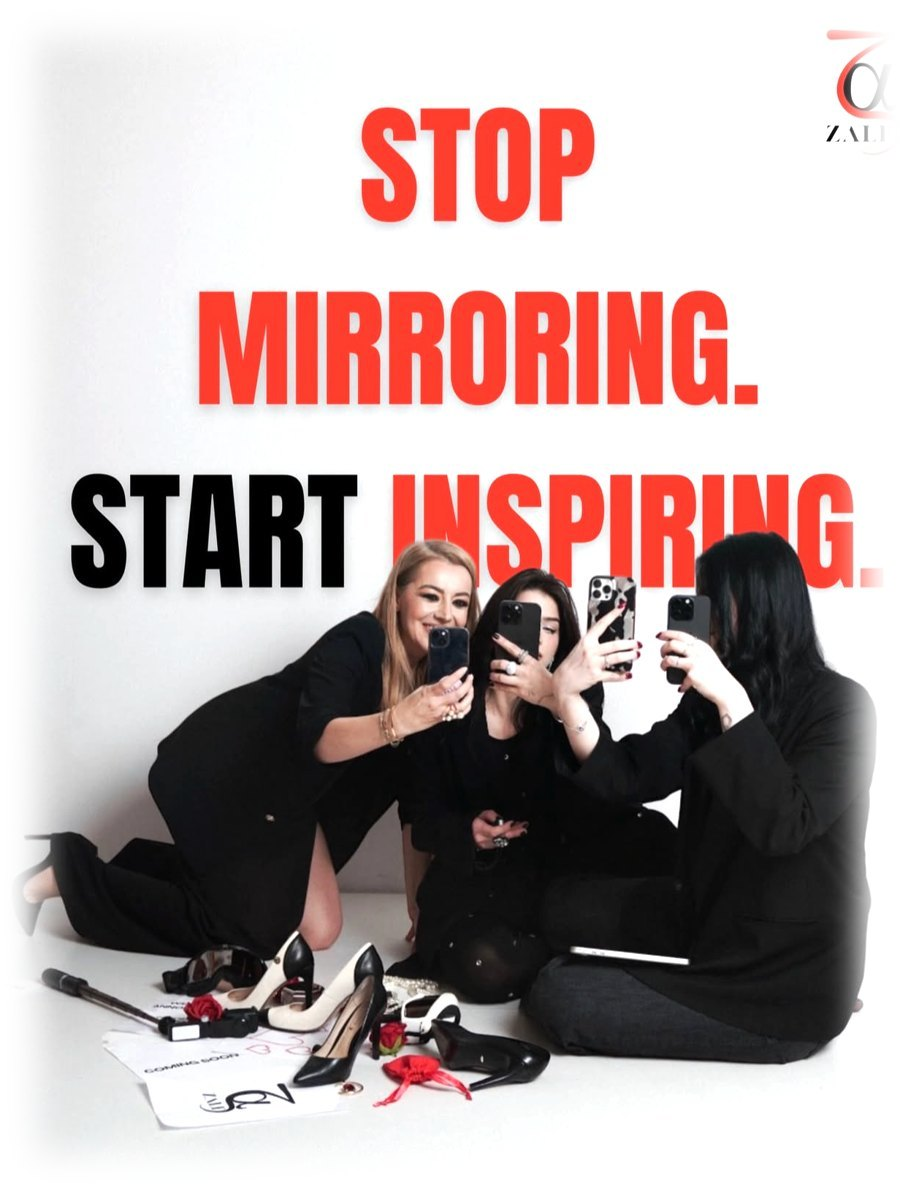
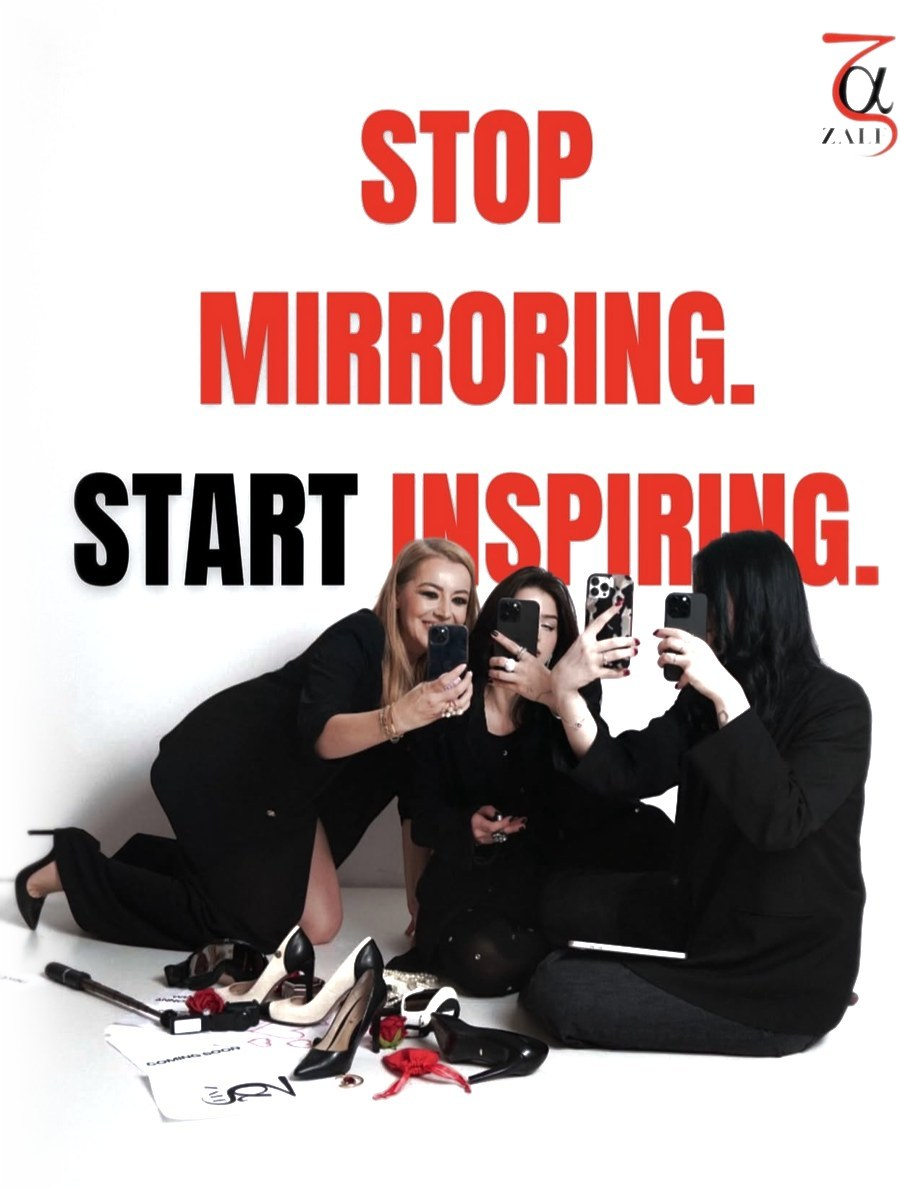
Reframe photos: full subjects, wall-only edge whitening
People are no longer faded or cut; only the studio wall near the
edges blends into the page background.

Claude-Session: https://claude.ai/code/session_01EVt79yBV7t7dAJsUM1vds3

diff --git a/index.html b/index.html
@@ -199,7 +199,7 @@ footer a:hover { color: var(--red); }
         <p class="lead">Agenție de marketing. Râdem mult, postăm des și <b>vindem</b> pentru clienții noștri.</p>
         <a class="btn" href="#contact">Vreau o ofertă</a>
       </div>
-      <figure class="hero-photo"><img src="assets/team.jpg" alt="Echipa Zalf în studio, în costume negre, cu schiuri, snowboard și ochelari de schi" width="988" height="1305"></figure>
+      <figure class="hero-photo"><img src="assets/team.jpg" alt="Echipa Zalf în studio, în costume negre, cu schiuri, snowboard și ochelari de schi" width="1000" height="1322"></figure>
       <div class="sheets" aria-hidden="true">
         <p class="sheet">You look like our next client</p>
         <p class="sheet">We have an announcement<small>We're not ready to announce it</small></p>
@@ -219,13 +219,13 @@ footer a:hover { color: var(--red); }
           <li><span class="tick" aria-hidden="true">✓</span><h3>Brand gro<b>w</b>th, not just pretty posts</h3><p>Un brand pe care lumea îl ține minte și de la care cumpără.</p></li>
         </ul>
       </div>
-      <figure><img src="assets/studio.jpg" alt="Trei membri ai echipei Zalf la o ședință foto, lângă un laptop cu sigla Zalf și un trepied" width="1100" height="1012"></figure>
+      <figure><img src="assets/studio.jpg" alt="Trei membri ai echipei Zalf la o ședință foto, lângă un laptop cu sigla Zalf și un trepied" width="1100" height="1090"></figure>
     </div>
   </section>
 
   <section id="cum-gandim">
     <div class="wrap do">
-      <figure><img src="assets/inspiring.jpg" alt="Postare Zalf: Stop mirroring. Start inspiring. Trei membre ale echipei se fotografiază cu telefoanele." width="900" height="1193"></figure>
+      <figure><img src="assets/inspiring.jpg" alt="Postare Zalf: Stop mirroring. Start inspiring. Trei membre ale echipei se fotografiază cu telefoanele." width="900" height="1189"></figure>
       <div>
         <h2>Cum gândim</h2>
         <ul class="quotes">

diff --git a/src/zalf.html b/src/zalf.html
@@ -193,7 +193,7 @@ footer a:hover { color: var(--red); }
         <p class="lead">Agenție de marketing. Râdem mult, postăm des și <b>vindem</b> pentru clienții noștri.</p>
         <a class="btn" href="#contact">Vreau o ofertă</a>
       </div>
-      <figure class="hero-photo"><img src="assets/team.jpg" alt="Echipa Zalf în studio, în costume negre, cu schiuri, snowboard și ochelari de schi" width="988" height="1305"></figure>
+      <figure class="hero-photo"><img src="assets/team.jpg" alt="Echipa Zalf în studio, în costume negre, cu schiuri, snowboard și ochelari de schi" width="1000" height="1322"></figure>
       <div class="sheets" aria-hidden="true">
         <p class="sheet">You look like our next client</p>
         <p class="sheet">We have an announcement<small>We're not ready to announce it</small></p>
@@ -213,13 +213,13 @@ footer a:hover { color: var(--red); }
           <li><span class="tick" aria-hidden="true">✓</span><h3>Brand gro<b>w</b>th, not just pretty posts</h3><p>Un brand pe care lumea îl ține minte și de la care cumpără.</p></li>
         </ul>
       </div>
-      <figure><img src="assets/studio.jpg" alt="Trei membri ai echipei Zalf la o ședință foto, lângă un laptop cu sigla Zalf și un trepied" width="1100" height="1012"></figure>
+      <figure><img src="assets/studio.jpg" alt="Trei membri ai echipei Zalf la o ședință foto, lângă un laptop cu sigla Zalf și un trepied" width="1100" height="1090"></figure>
     </div>
   </section>
 
   <section id="cum-gandim">
     <div class="wrap do">
-      <figure><img src="assets/inspiring.jpg" alt="Postare Zalf: Stop mirroring. Start inspiring. Trei membre ale echipei se fotografiază cu telefoanele." width="900" height="1193"></figure>
+      <figure><img src="assets/inspiring.jpg" alt="Postare Zalf: Stop mirroring. Start inspiring. Trei membre ale echipei se fotografiază cu telefoanele." width="900" height="1189"></figure>
       <div>
         <h2>Cum gândim</h2>
         <ul class="quotes">
